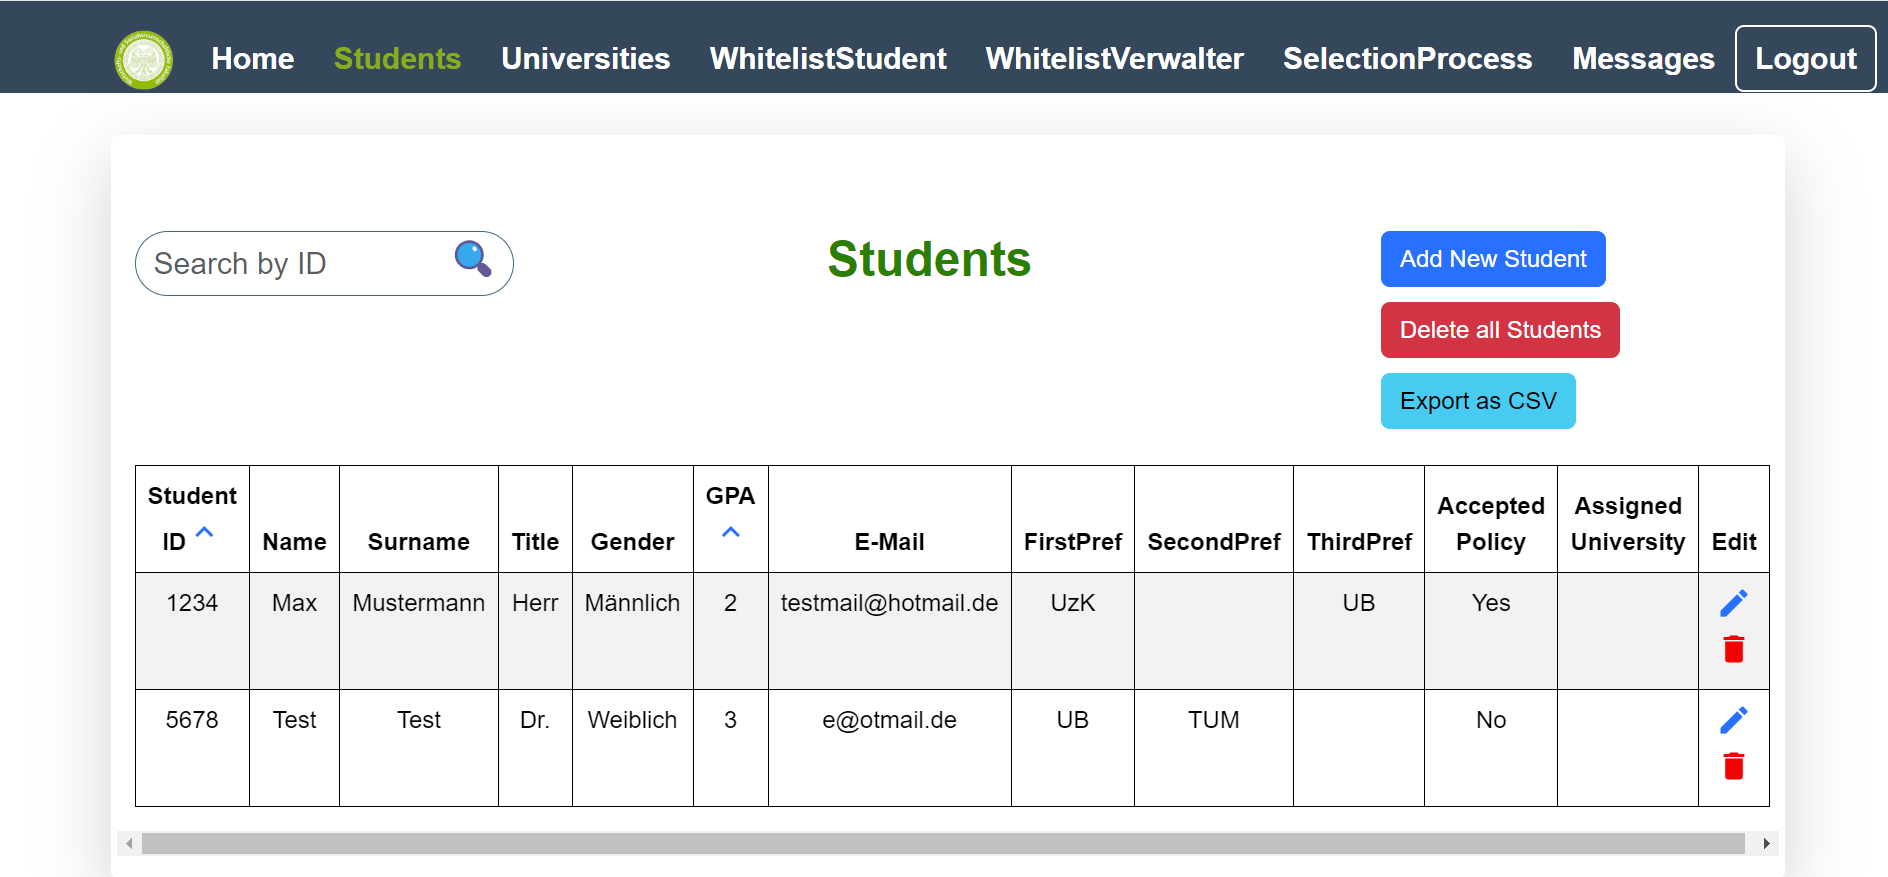
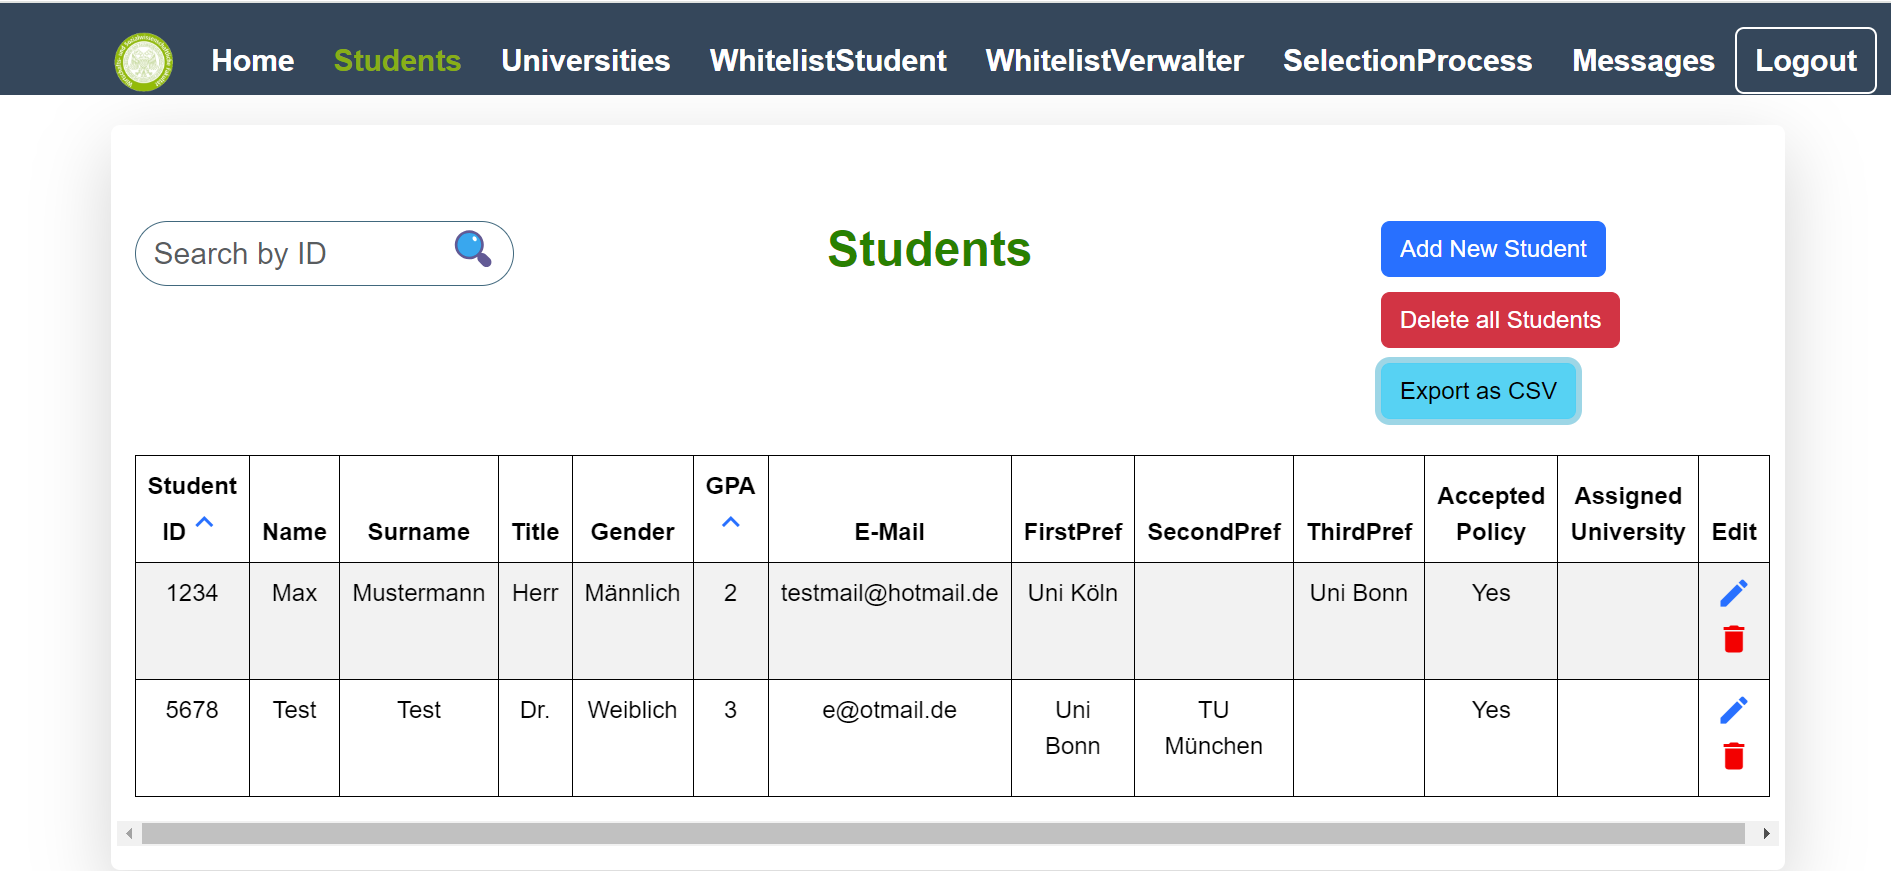
wrote about student and university page in readme

diff --git a/src/components/StudentDataTable/StudentTable.jsx b/src/components/StudentDataTable/StudentTable.jsx
@@ -343,7 +343,7 @@ function Home() {
 
   const getUniName = (id) => {
     const uni = universities.find((uni) => uni.uniId === id);
-    return uni ? uni.abbName : '';
+    return uni ? uni.name : '';
   }
 
 
@@ -477,12 +477,10 @@ function Home() {
             show={show}
             onHide={handleClose}
             backdrop="static"
-
             keyboard={false}
-
           >
             <Modal.Header closeButton>
-              <Modal.Title>{selectedStudent? "Edit record": "Add record"}</Modal.Title>
+              <Modal.Title>{selectedStudent ? "Edit record" : "Add record"}</Modal.Title>
             </Modal.Header>
             <Modal.Body>
               <form onSubmit={selectedStudent ? updateStudent : addStudent}>

diff --git a/README.md b/README.md
@@ -84,10 +84,11 @@ Nach der Anmeldung als Admin landet man zunächst auf die Homepage des Admins. H
 <br>
 
 <div align="center">
-    <img class="logo" src="./public/HomepageAdmin.png" alt="Logo" width="900px">
+    <img class="logo" src="./public/HomepageAdmin.png" alt="Logo" width="800px">
   </a>
 </div>
-
+<br>
+Die Zahlen neben den Studenten ID's geben an, an welcher Stelle die Univeristät bezüglich der Präferenz des Studenten steht. Ist keine Präferenz für die jeweilige Universität gesetzt, so erscheint kein Wert in der jeweiligen Zelle.
 <br>
 Am Anfang wird diese Liste leer sein, wenn man noch keine Daten eingetragen hat. Alle Universitäts- und Studentendaten inklusive der Deadline, die auf den anderen Seiten eingetragen werden, erscheinen dann hier in Form dieser Tabelle.
 <br>
@@ -96,12 +97,28 @@ Man kann anschließend zu den anderen Seiten navigieren.
 ### Students Page 
 Auf dieser Seite kann man die Studenten hinzufügen und bearbeiten, die beim Auswahlverfahren teilnehmen können.
 <div align="center">
-    <img class="logo" src="./public/StudentPage.png" alt="Logo" width="900px">
+    <img class="logo" src="./public/StudentPage.png" alt="Logo" width="800px">
   </a>
 </div>
-Mit dem Exportbutton kann man die Dateien der Tabelle als CSV Datei exportieren und mit ihnen in Excel arbeiten.
+Mit dem Exportbutton kann man die Studentendaten der Tabelle als CSV Datei exportieren und mit ihnen in Excel weiterarbeiten.
 <br>
-Wichtig beim Bearbeiten: Es kann beim Bearbeiten die ID nicht mehr geändert werden, da die ID als eindeutige Identifikation dient und eine nachträgliche Änderung die Zuordnung der Daten durcheinander bringen würde. Alle anderen Variablen sind jedoch bearbeitbar.
+Wichtig beim Bearbeiten: Es kann beim Bearbeiten die ID des Studenten nicht mehr geändert werden, da die ID als eindeutige Identifikation dient und eine nachträgliche Änderung die Zuordnung der Daten durcheinander bringen würde. Alle anderen Variablen sind jedoch bearbeitbar:
+<div align="center" style="margin-top: 20px;">
+    <img class="logo" src="./public/EditStudentPage.png" alt="Logo" width="400px">
+</div>
+<br>
+Die Präferenzen des Studenten für eine jeweilige UNiveristät wird als ID der Univrsität gespeichert. Nur im Programm, was der Admin sieht, sieht man den Namen der Universität. Exportiert man die Daten als CSV-Datei , so wird bei dem Uninamen(unter FirstPref, SecondPref, ThirdPref sowie Assigned University) in Excel die ID der Uni ausgegeben und nicht der Name. Dadurch ist eine eindeutige Zuteilung der Universitäten gewährleistet. Die Namen der gewählten Univeristäten findet man also nur im Programm. Ist keine Universität für eine Präferenz gewählt, so erscheint der Wert 0 an dieser Stelle.
+<br>
+
+### Universities Page
+Auf dieser Seite kann man die Universitäten, die der Student wählen kann, hinzufügen und bearbeiten. Auch können die Dateien hier im CSV-Datei exportiert werden.
+<br>
+Durch die Checkbox bei MinGPA kann man festlegen, ob die Durchschnittsnote der letzten Jahe für eine Univeristät auf der Studentenseite für die jeweilige Universität angezeigt werden soll oder nicht. 
+
+<div align="center" style="margin-top: 20px;">
+    <img class="logo" src="./public/UniversitiesPage.png" alt="Logo" width="800px">
+  </a>
+</div>
 
 
 ### User Daten einfügen
